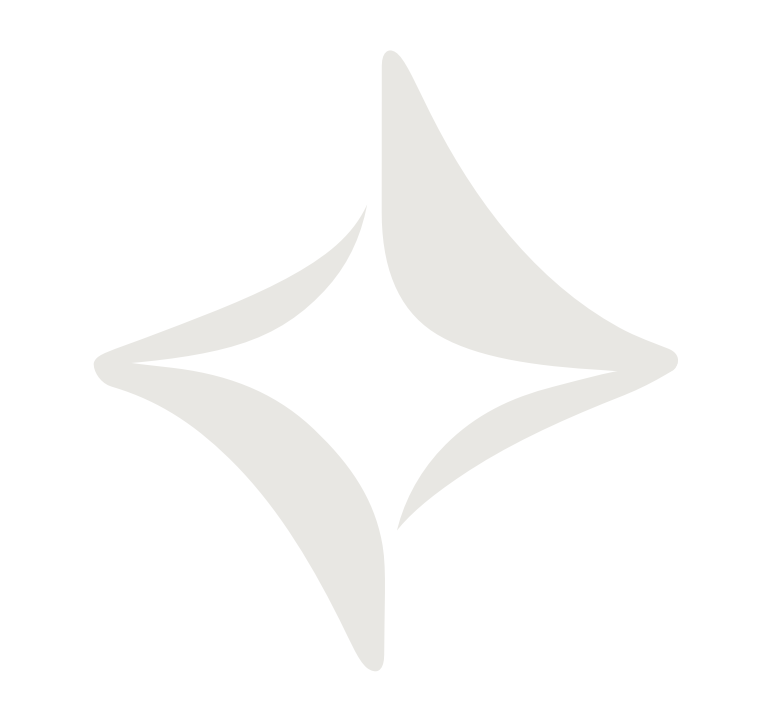
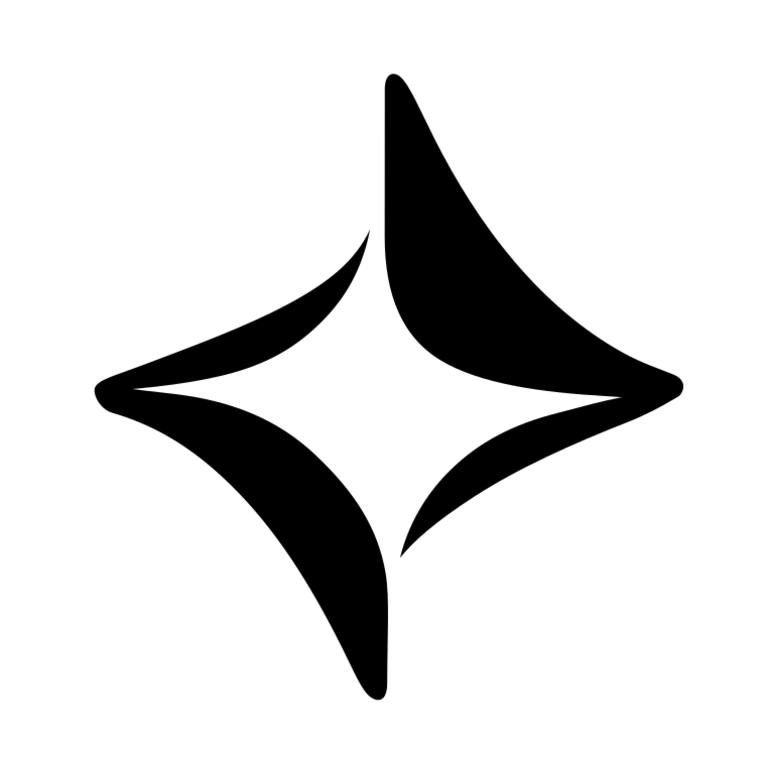
Solved general problems of the editor

Changed region(s): [[0.1207, 0.0615, 0.9055, 0.9525]]

diff --git a/scripts/package_windows.py b/scripts/package_windows.py
@@ -135,8 +135,9 @@ def main():
     ])
 
     bin_directory = build_directory / "bin"
+    docking_name = "qtadvanceddocking-qt6d.dll" if args.debug else "qtadvanceddocking-qt6.dll"
     for name in ["AtlasEditor.exe", "atlas.exe", "atlasrun.exe", "runtime.dll",
-                 "qtadvanceddocking-qt6.dll"]:
+                 docking_name]:
         copy_required(bin_directory / name, package_directory / name)
 
     copy_runtime_dlls(
@@ -170,7 +171,7 @@ def main():
     icon = package_directory / "atlas-star.ico"
     run([
         require("magick"), "-background", "none",
-        root / "editor" / "assets" / "atlas-star.png",
+        root / "editor" / "assets" / "atlasStar.svg",
         "-resize", "256x256", "-gravity", "center", "-extent", "256x256",
         "-define", "icon:auto-resize=256,128,64,48,32,16",
         icon,
@@ -180,7 +181,8 @@ def main():
         raise RuntimeError("rcedit x86_64 executable was not found")
     run([rcedit, package_directory / "AtlasEditor.exe", "--set-icon", icon])
 
-    if not (package_directory / "platforms" / "qwindows.dll").is_file():
+    platform_plugin = "qwindowsd.dll" if args.debug else "qwindows.dll"
+    if not (package_directory / "platforms" / platform_plugin).is_file():
         raise RuntimeError("Qt Windows platform plugin is missing")
     if not (package_directory / "atlas.exe").is_file():
         raise RuntimeError("Atlas CLI is missing")

diff --git a/atlas/graphics/particle.cpp b/atlas/graphics/particle.cpp
@@ -279,11 +279,14 @@ void ParticleEmitter::activateParticle(int index) {
 void ParticleEmitter::update(Window &window) {
     float dt = window.getDeltaTime();
     Camera *cam = window.getCamera();
-    this->model = glm::translate(
-        glm::mat4(1.0f),
-        glm::vec3(cam->position.x, cam->position.y, cam->position.z));
-    if (!firstCameraPosition.has_value()) {
-        firstCameraPosition = cam->position;
+    if (cam != nullptr) {
+        this->model = glm::translate(
+            glm::mat4(1.0f),
+            glm::vec3(cam->position.x, cam->position.y, cam->position.z));
+        if (!firstCameraPosition.has_value())
+            firstCameraPosition = cam->position;
+    } else {
+        this->model = glm::mat4(1.0f);
     }
 
     if (isEmitting) {

diff --git a/editor/main.cpp b/editor/main.cpp
@@ -225,7 +225,7 @@ int main(int argc, char **argv) {
 
 #ifndef Q_OS_MACOS
 #ifdef Q_OS_WIN
-    app.setWindowIcon(QIcon(":/editor/assets/atlas-star.png"));
+    app.setWindowIcon(QIcon(":/editor/assets/atlasStar.svg"));
 #else
 #ifdef ATLAS_DEBUG_BUILD
     app.setWindowIcon(
